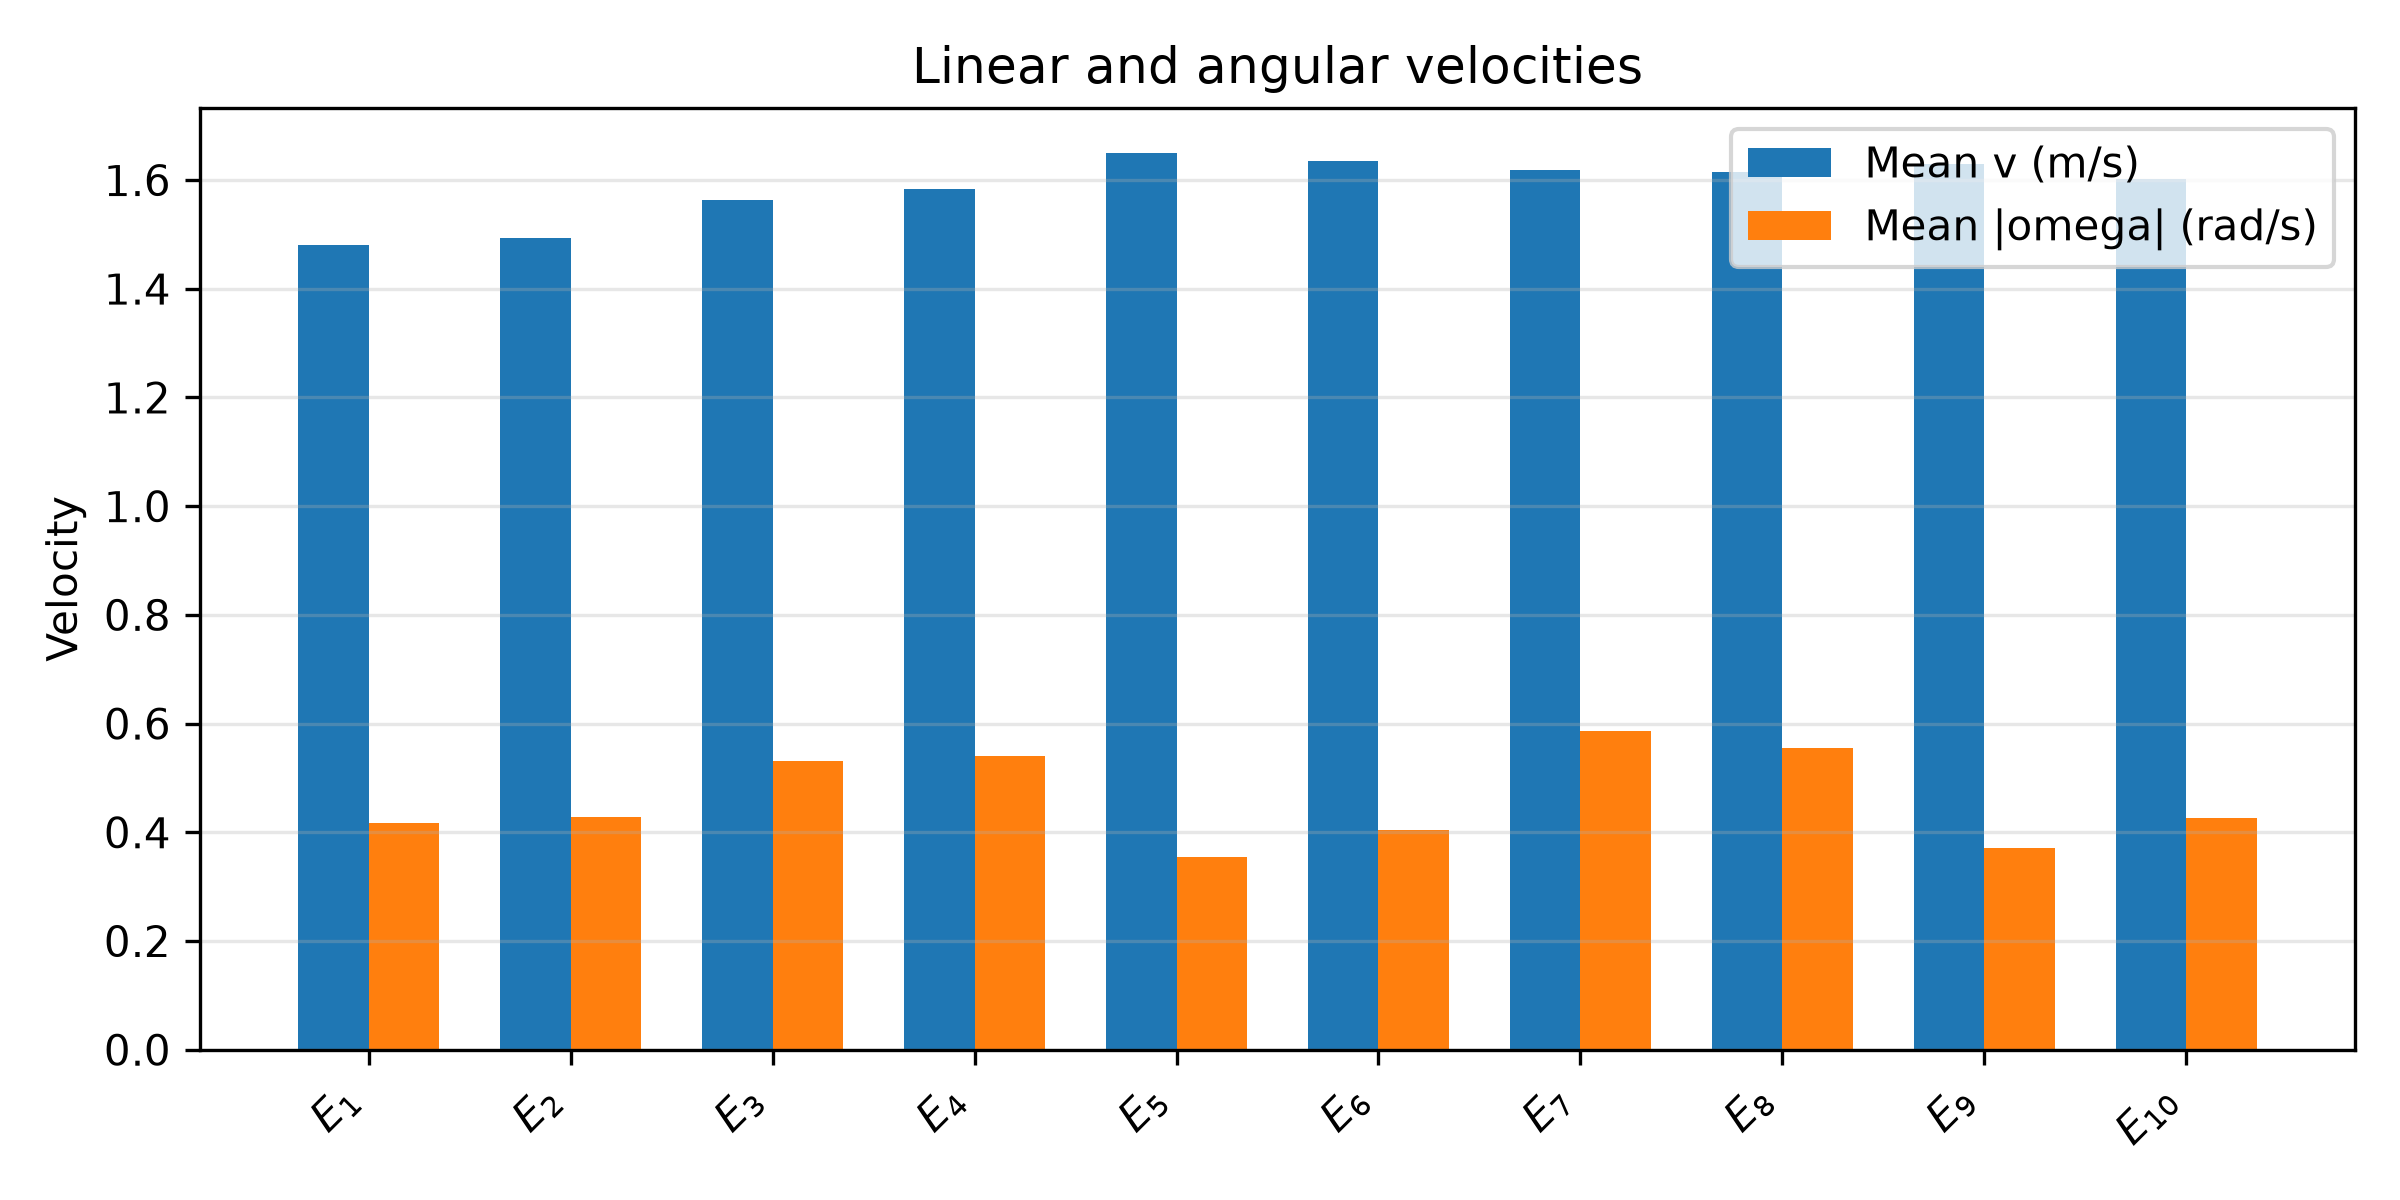
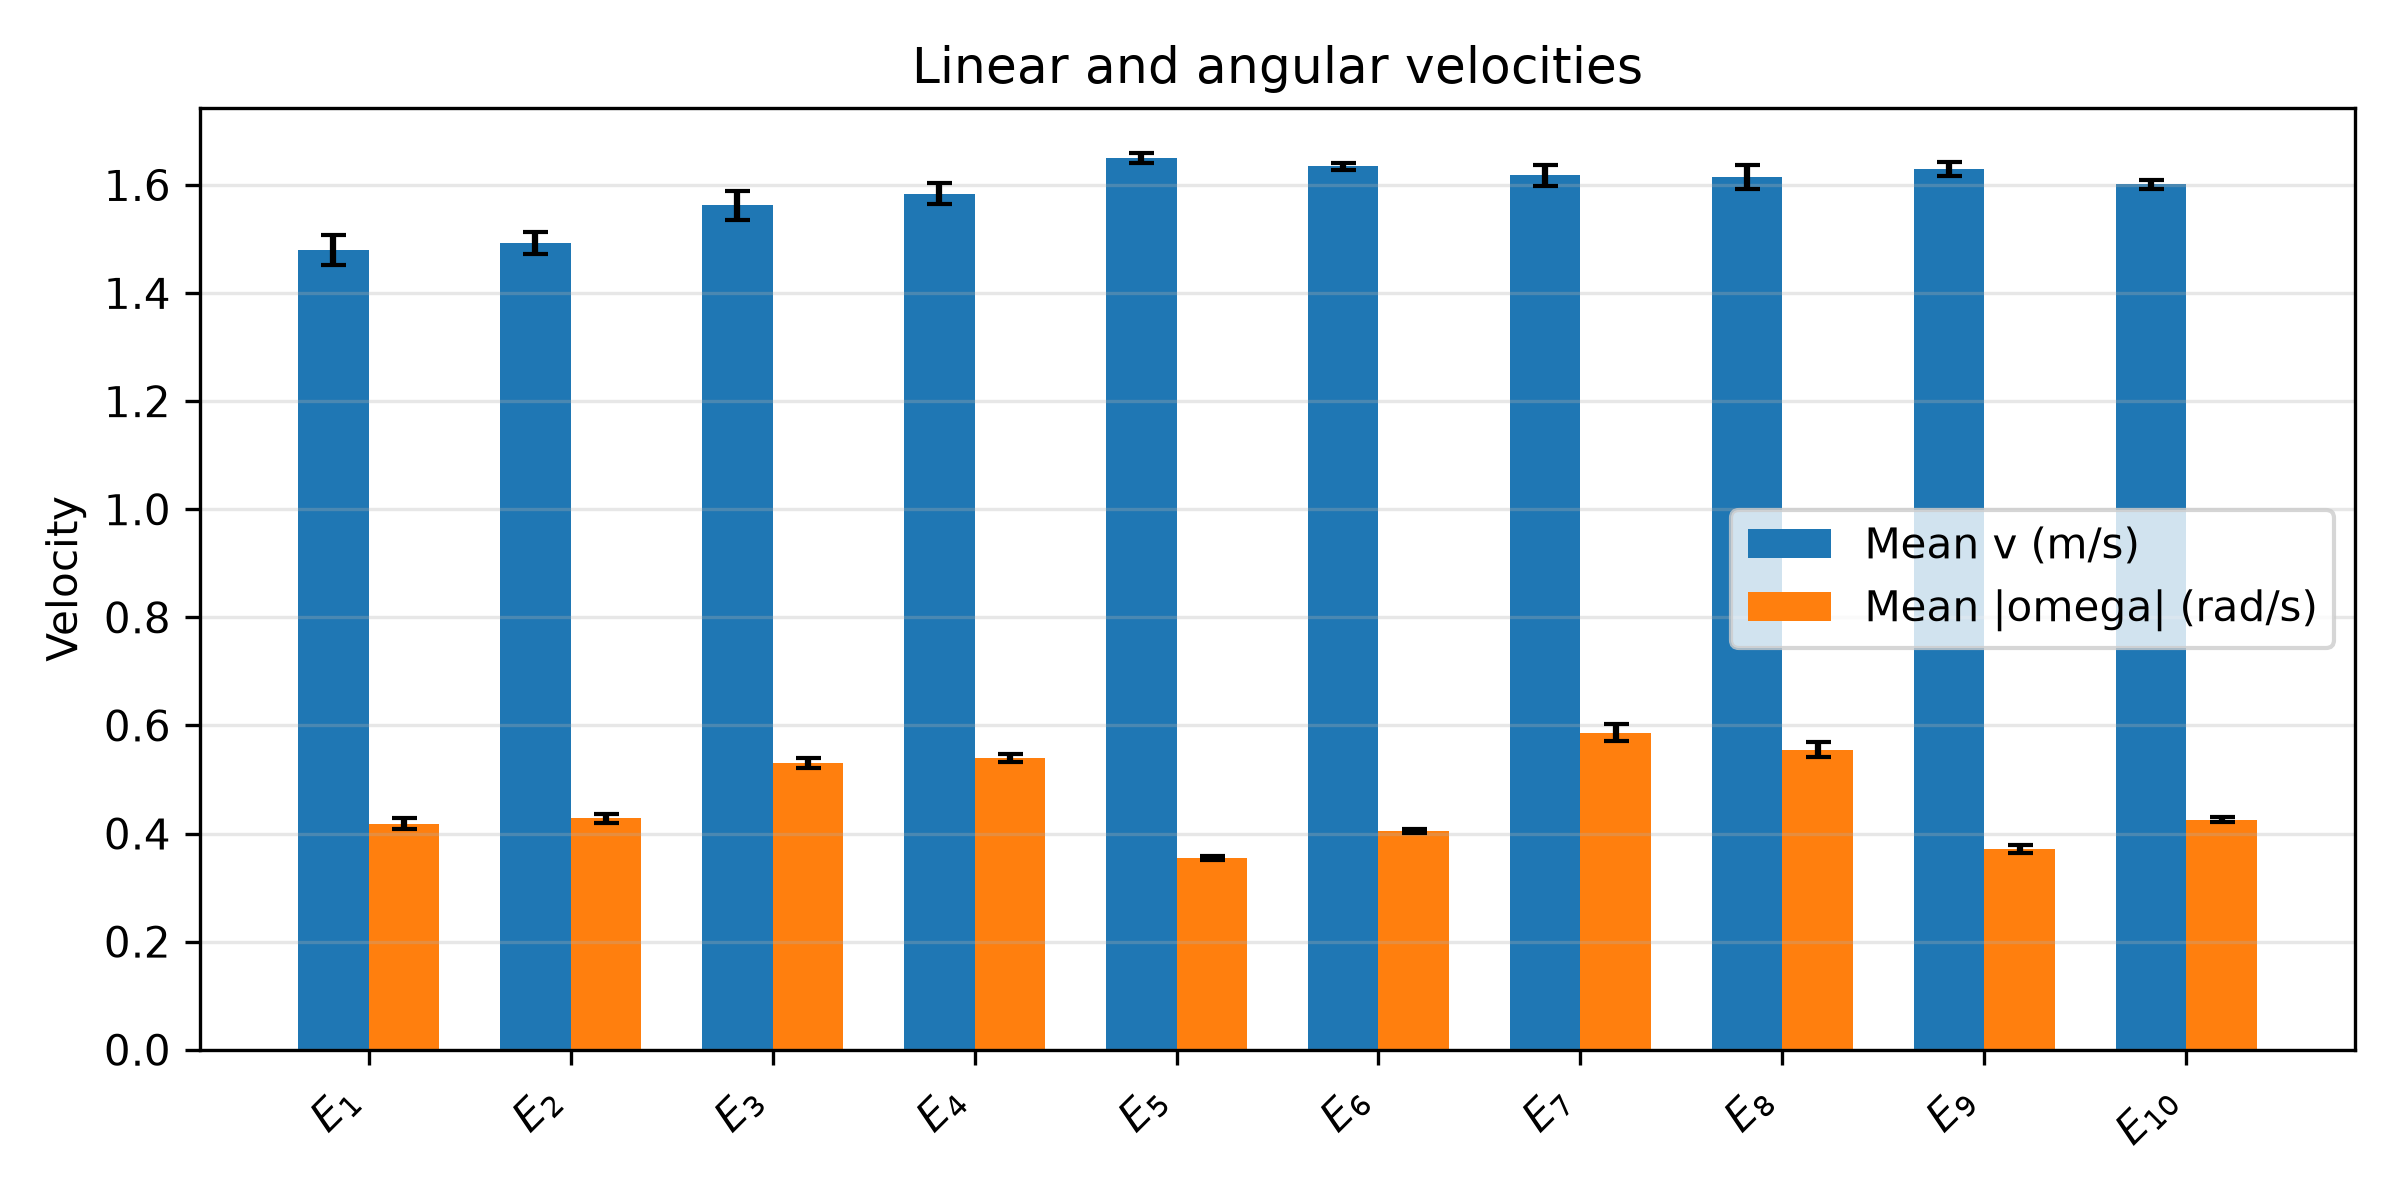
add ci on plots

diff --git a/utils/plotting.py b/utils/plotting.py
@@ -158,71 +158,27 @@ def plot_figures(
 ) -> tuple[Figure, Figure, Figure]:
     """
     Generate training curves or validation/evaluation summaries.
-
-    For training, ''file_name'' identifies the task or curriculum log.
-    For validation and evaluation, all task logs of the policy are combined.
     """
 
     # Create the output directory if it does not exist
-    if mode == "train":
-        figs_dir = Path(figs_dir) / mode / policy_name
-    else:
-        figs_dir = Path(figs_dir) / mode / policy_name / checkpoint_name
-    figs_dir.mkdir(parents=True, exist_ok=True)
 
     # Load one task logs for train
     if mode == "train":
+        figs_dir = Path(figs_dir) / mode / policy_name
         logs_dir = Path(logs_dir) / mode / policy_name
         metrics_file = logs_dir / "metrics.csv"
         rewards_file = logs_dir / "rewards.csv"
-
-        if not metrics_file.is_file():
-            raise FileNotFoundError(f"Performance log not found: {metrics_file}")
-        if not rewards_file.is_file():
-            raise FileNotFoundError(f"Reward log not found: {rewards_file}")
-
         metrics = pd.read_csv(metrics_file)
         rewards = pd.read_csv(rewards_file)
 
     # Load all tasks logs for validation and evaluation
     else:
+        figs_dir = Path(figs_dir) / mode / policy_name / checkpoint_name
         logs_dir = Path(logs_dir) / mode / policy_name / checkpoint_name
-        metrics_files = sorted(logs_dir.glob("*_metrics.csv"))
-        rewards_files = sorted(logs_dir.glob("*_rewards.csv"))
+        summary_path = Path(logs_dir) / "summary.csv"
+        summary = pd.read_csv(summary_path)
+        metrics, rewards = summary, summary
 
-        if not metrics_files:
-            raise FileNotFoundError(f"No metrics files found in: {logs_dir}")
-        if not rewards_files:
-            raise FileNotFoundError(f"No reward files found in: {logs_dir}")
-
-        # Concatenate all files in one
-        metrics_frames = []
-        rewards_frames = []
-
-        for metrics_file in metrics_files:
-            task_name = metrics_file.name.removesuffix("_metrics.csv")
-            task_df = pd.read_csv(metrics_file)
-            task_df["task"] = task_name
-            metrics_frames.append(task_df)
-
-        for rewards_file in rewards_files:
-            task_name = rewards_file.name.removesuffix("_rewards.csv")
-            task_df = pd.read_csv(rewards_file)
-            task_df["task"] = task_name
-            rewards_frames.append(task_df)
-
-        metrics = pd.concat(metrics_frames, ignore_index=True)
-        rewards = pd.concat(rewards_frames, ignore_index=True)
-
-        # Create one summary row per task
-        metrics = metrics.groupby("task", sort=False, as_index=False).mean(
-            numeric_only=True
-        )
-        rewards = rewards.groupby("task", sort=False, as_index=False).mean(
-            numeric_only=True
-        )
-
-    # Generate figures
     rewards = _plot_rewards(mode=mode, df=rewards, path=figs_dir, window=window)
     performances = _plot_performances(
         mode=mode, df=metrics, path=figs_dir, window=window
@@ -249,19 +205,21 @@ def _plot_performances(
     path = Path(path)
     path.mkdir(parents=True, exist_ok=True)
 
-    # Create the subplot grid (one for rates and one for travel time)
-    fig, (ax1, ax2) = plt.subplots(2, 1, figsize=(9, 8), sharex=True)
-
-    df = df.copy()
-
-    # Compute the timeout rate
-    df["timeout_rate"] = (1 - df["success_rate"] - df["collision_rate"]).clip(0, 1)
+    # Create the subplots
+    fig1, ax1 = plt.subplots(figsize=(8, 4))
+    fig2, ax2 = plt.subplots(figsize=(8, 4))
 
     # Convert rates to percentage
     cols = ["success_rate", "collision_rate", "timeout_rate"]
-    df[cols] = 100 * df[cols]
 
+    df = df.copy()
     if mode == "train":
+        # Compute the timeout rate
+        df["timeout_rate"] = (1 - df["success_rate"] - df["collision_rate"]).clip(0, 1)
+
+        # Convert rates to percentage
+        df[cols] = 100 * df[cols]
+
         # Smooth the curves
         cols = [*cols, "mean_time_travel"]
         for col in cols:
@@ -281,7 +239,10 @@ def _plot_performances(
         )
 
         # Configure the figure
-        ax1.set_title("Training performance")
+        ax1.set_title("Training rates")
+        ax1.set_xlabel("Episode")
+
+        ax2.set_title("Training mean travel time")
         ax2.set_xlabel("Episode")
 
     else:
@@ -290,39 +251,81 @@ def _plot_performances(
             "task", key=lambda x: x.str.extract(r"(\d+)$", expand=False).astype(int)
         )
 
+        # Convert rates to percentage
+        cols = [
+            column
+            for metric in cols
+            for column in [metric, f"{metric}_low", f"{metric}_high"]
+        ]
+        df[cols] = 100 * df[cols]
+
         # Define bars
         x = np.arange(len(df))
-        task_labels = df["task"].map(lambda task_name: _get_title(task_name=task_name))
         width = 0.25
+        task_labels = df["task"].map(lambda task_name: _get_title(task_name=task_name))
 
         # Plot
-        ax1.bar(x - width, df["success_rate"], width, label="Success")
-        ax1.bar(x, df["collision_rate"], width, label="Collision")
-        ax1.bar(x + width, df["timeout_rate"], width, label="Timeout")
-
-        ax2.bar(x, df["mean_time_travel"], label="Mean travel time")
+        ax1.bar(
+            x - width,
+            df["success_rate"],
+            width,
+            yerr=_get_yerr(df, "success_rate"),
+            capsize=3,
+            label="Success",
+        )
+        ax1.bar(
+            x,
+            df["collision_rate"],
+            width,
+            yerr=_get_yerr(df, "collision_rate"),
+            capsize=3,
+            label="Collision",
+        )
+        ax1.bar(
+            x + width,
+            df["timeout_rate"],
+            width,
+            yerr=_get_yerr(df, "timeout_rate"),
+            capsize=3,
+            label="Timeout",
+        )
+        ax2.bar(
+            x,
+            df["mean_travel_time"],
+            yerr=_get_yerr(df, "mean_travel_time"),
+            capsize=3,
+            label="Mean travel time",
+        )
 
         # Configure the figure
-        ax1.set_title(f"{mode.capitalize()} performance")
-        ax2.set_xticks(x)
-        ax2.set_xticklabels(task_labels, rotation=45, ha="right")
+        for ax in [ax1, ax2]:
+            ax.set_xticks(x)
+            ax.set_xticklabels(
+                task_labels,
+                rotation=45,
+                ha="right",
+            )
+            ax.set_xlabel("Task")
+
+        ax1.set_title(f"{mode.capitalize()} rates")
+        ax2.set_title(f"{mode.capitalize()} mean travel time")
 
     # Configure the figure
     ax1.set_ylabel("Rate (%)")
-    ax1.set_ylim(0, 100)
+    ax1.set_ylim(0, 105)
     ax1.grid(axis="y", alpha=0.3)
-    ax1.legend()
-
+    ax1.legend(loc="upper center", bbox_to_anchor=(0.5, -0.18), ncol=3, frameon=False)
+    fig1.tight_layout()
     ax2.set_ylabel("Travel time")
     ax2.grid(axis="y", alpha=0.3)
     ax2.legend()
-
-    fig.tight_layout()
+    fig2.tight_layout()
 
     # Save the figure
-    fig.savefig(path / "performances.png", dpi=300)
+    fig1.savefig(path / "rates.png", dpi=300)
+    fig2.savefig(path / "travel_time.png", dpi=300)
 
-    return fig
+    return fig1
 
 
 def _plot_velocities(
@@ -381,18 +384,25 @@ def _plot_velocities(
 
         # Define bars
         x = np.arange(len(df))
-        task_labels = df["task"].map(lambda task_name: _get_title(task_name=task_name))
-
         width = 0.35
+        task_labels = df["task"].map(lambda task_name: _get_title(task_name=task_name))
 
         # Plot
         ax.bar(
-            x - width / 2, df["mean_v"], width, label="Mean v (m/s)", color="tab:blue"
+            x - width / 2,
+            df["mean_v"],
+            width,
+            yerr=_get_yerr(df, "mean_v"),
+            capsize=3,
+            label="Mean v (m/s)",
+            color="tab:blue",
         )
         ax.bar(
             x + width / 2,
             df["mean_abs_omega"],
             width,
+            yerr=_get_yerr(df, "mean_abs_omega"),
+            capsize=3,
             label="Mean |omega| (rad/s)",
             color="tab:orange",
         )
@@ -476,7 +486,13 @@ def _plot_rewards(
         x = np.arange(len(df))
         task_labels = df["task"].map(lambda task_name: _get_title(task_name=task_name))
 
-        ax.bar(x, df["return_total"], color="tab:blue")
+        ax.bar(
+            x,
+            df["mean_return"],
+            yerr=_get_yerr(df, "mean_return"),
+            capsize=3,
+            color="tab:blue",
+        )
 
         # Configure the figure
         ax.set_xticks(x)
@@ -496,6 +512,17 @@ def _plot_rewards(
     fig.savefig(path / "rewards.png", dpi=300)
 
     return fig
+
+
+def _get_yerr(df: pd.DataFrame, metric: str) -> np.ndarray:
+    """
+    Return asymmetric error bars from confidence interval bounds.
+    """
+
+    lower_error = (df[metric] - df[f"{metric}_low"]).clip(lower=0)
+    upper_error = (df[f"{metric}_high"] - df[metric]).clip(lower=0)
+
+    return np.vstack([lower_error.to_numpy(), upper_error.to_numpy()])
 
 
 def _get_title(task_name: str) -> str:
